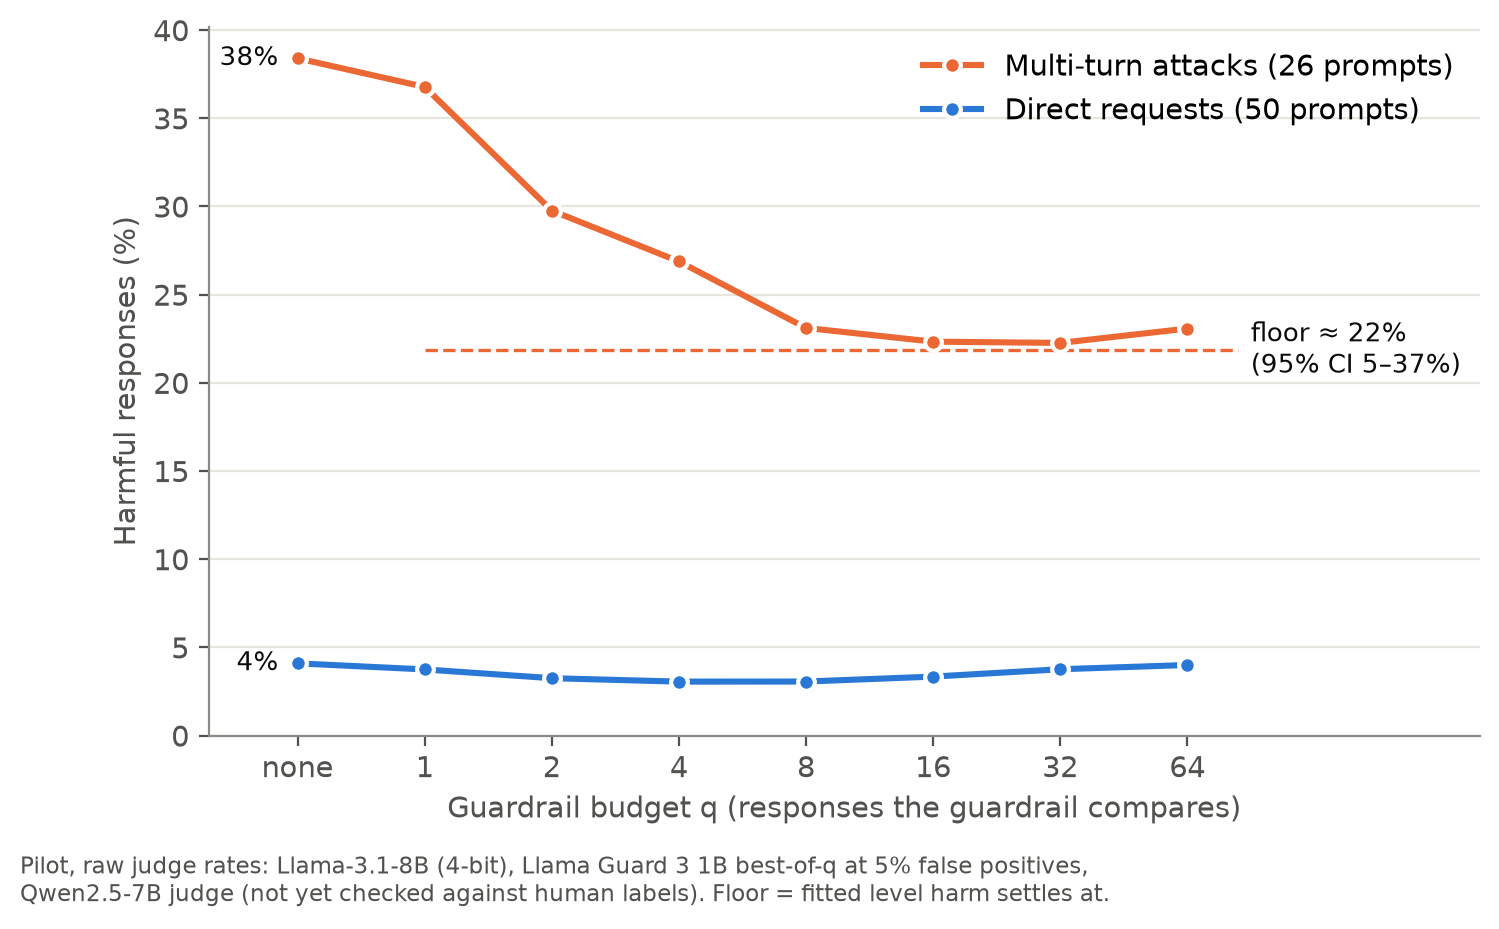
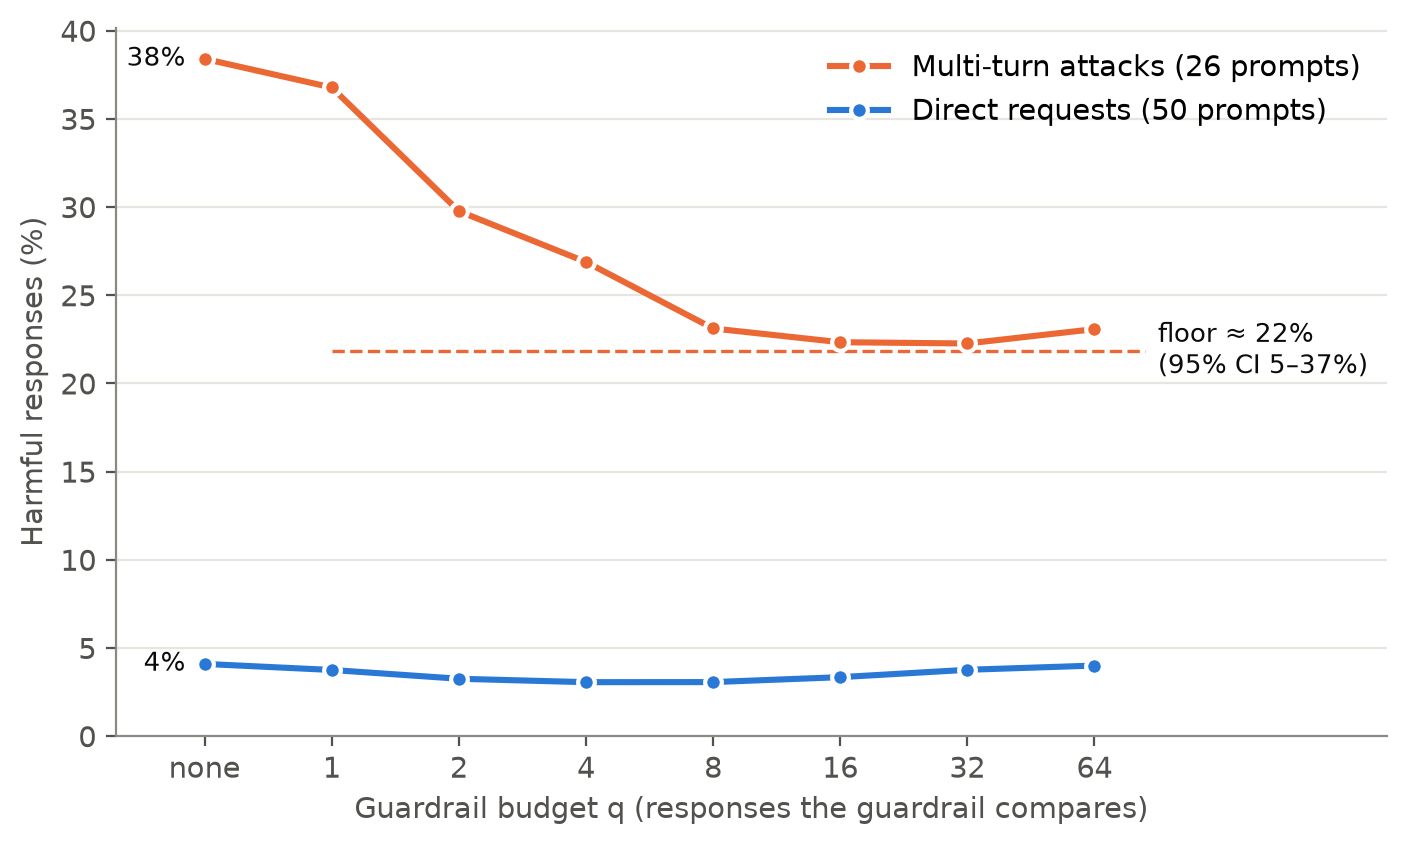
plot_pilot: drop footnote from chart

diff --git a/scripts/plot_pilot.py b/scripts/plot_pilot.py
@@ -49,10 +49,6 @@ def main() -> None:
     ax.set_xlabel("Guardrail budget q (responses the guardrail compares)", color=INK2)
     ax.set_ylabel("Harmful responses (%)", color=INK2)
     ax.legend(frameon=False, loc="upper right")
-    fpr = a.setting.replace("fpr_", "")
-    fig.text(0.01, -0.07, f"Pilot, raw judge rates: Llama-3.1-8B (4-bit), Llama Guard 3 1B best-of-q at {float(fpr):.0%} "
-             f"false positives,\nQwen2.5-7B judge (not yet checked against human labels). Floor = fitted level harm settles at.",
-             fontsize=8.3, color=INK2)
     out = Path(a.out) if a.out else Path(a.results).with_name(f"harm_vs_budget_{a.setting}.png")
     fig.savefig(out, dpi=200, bbox_inches="tight", facecolor="white")
     print(out)
